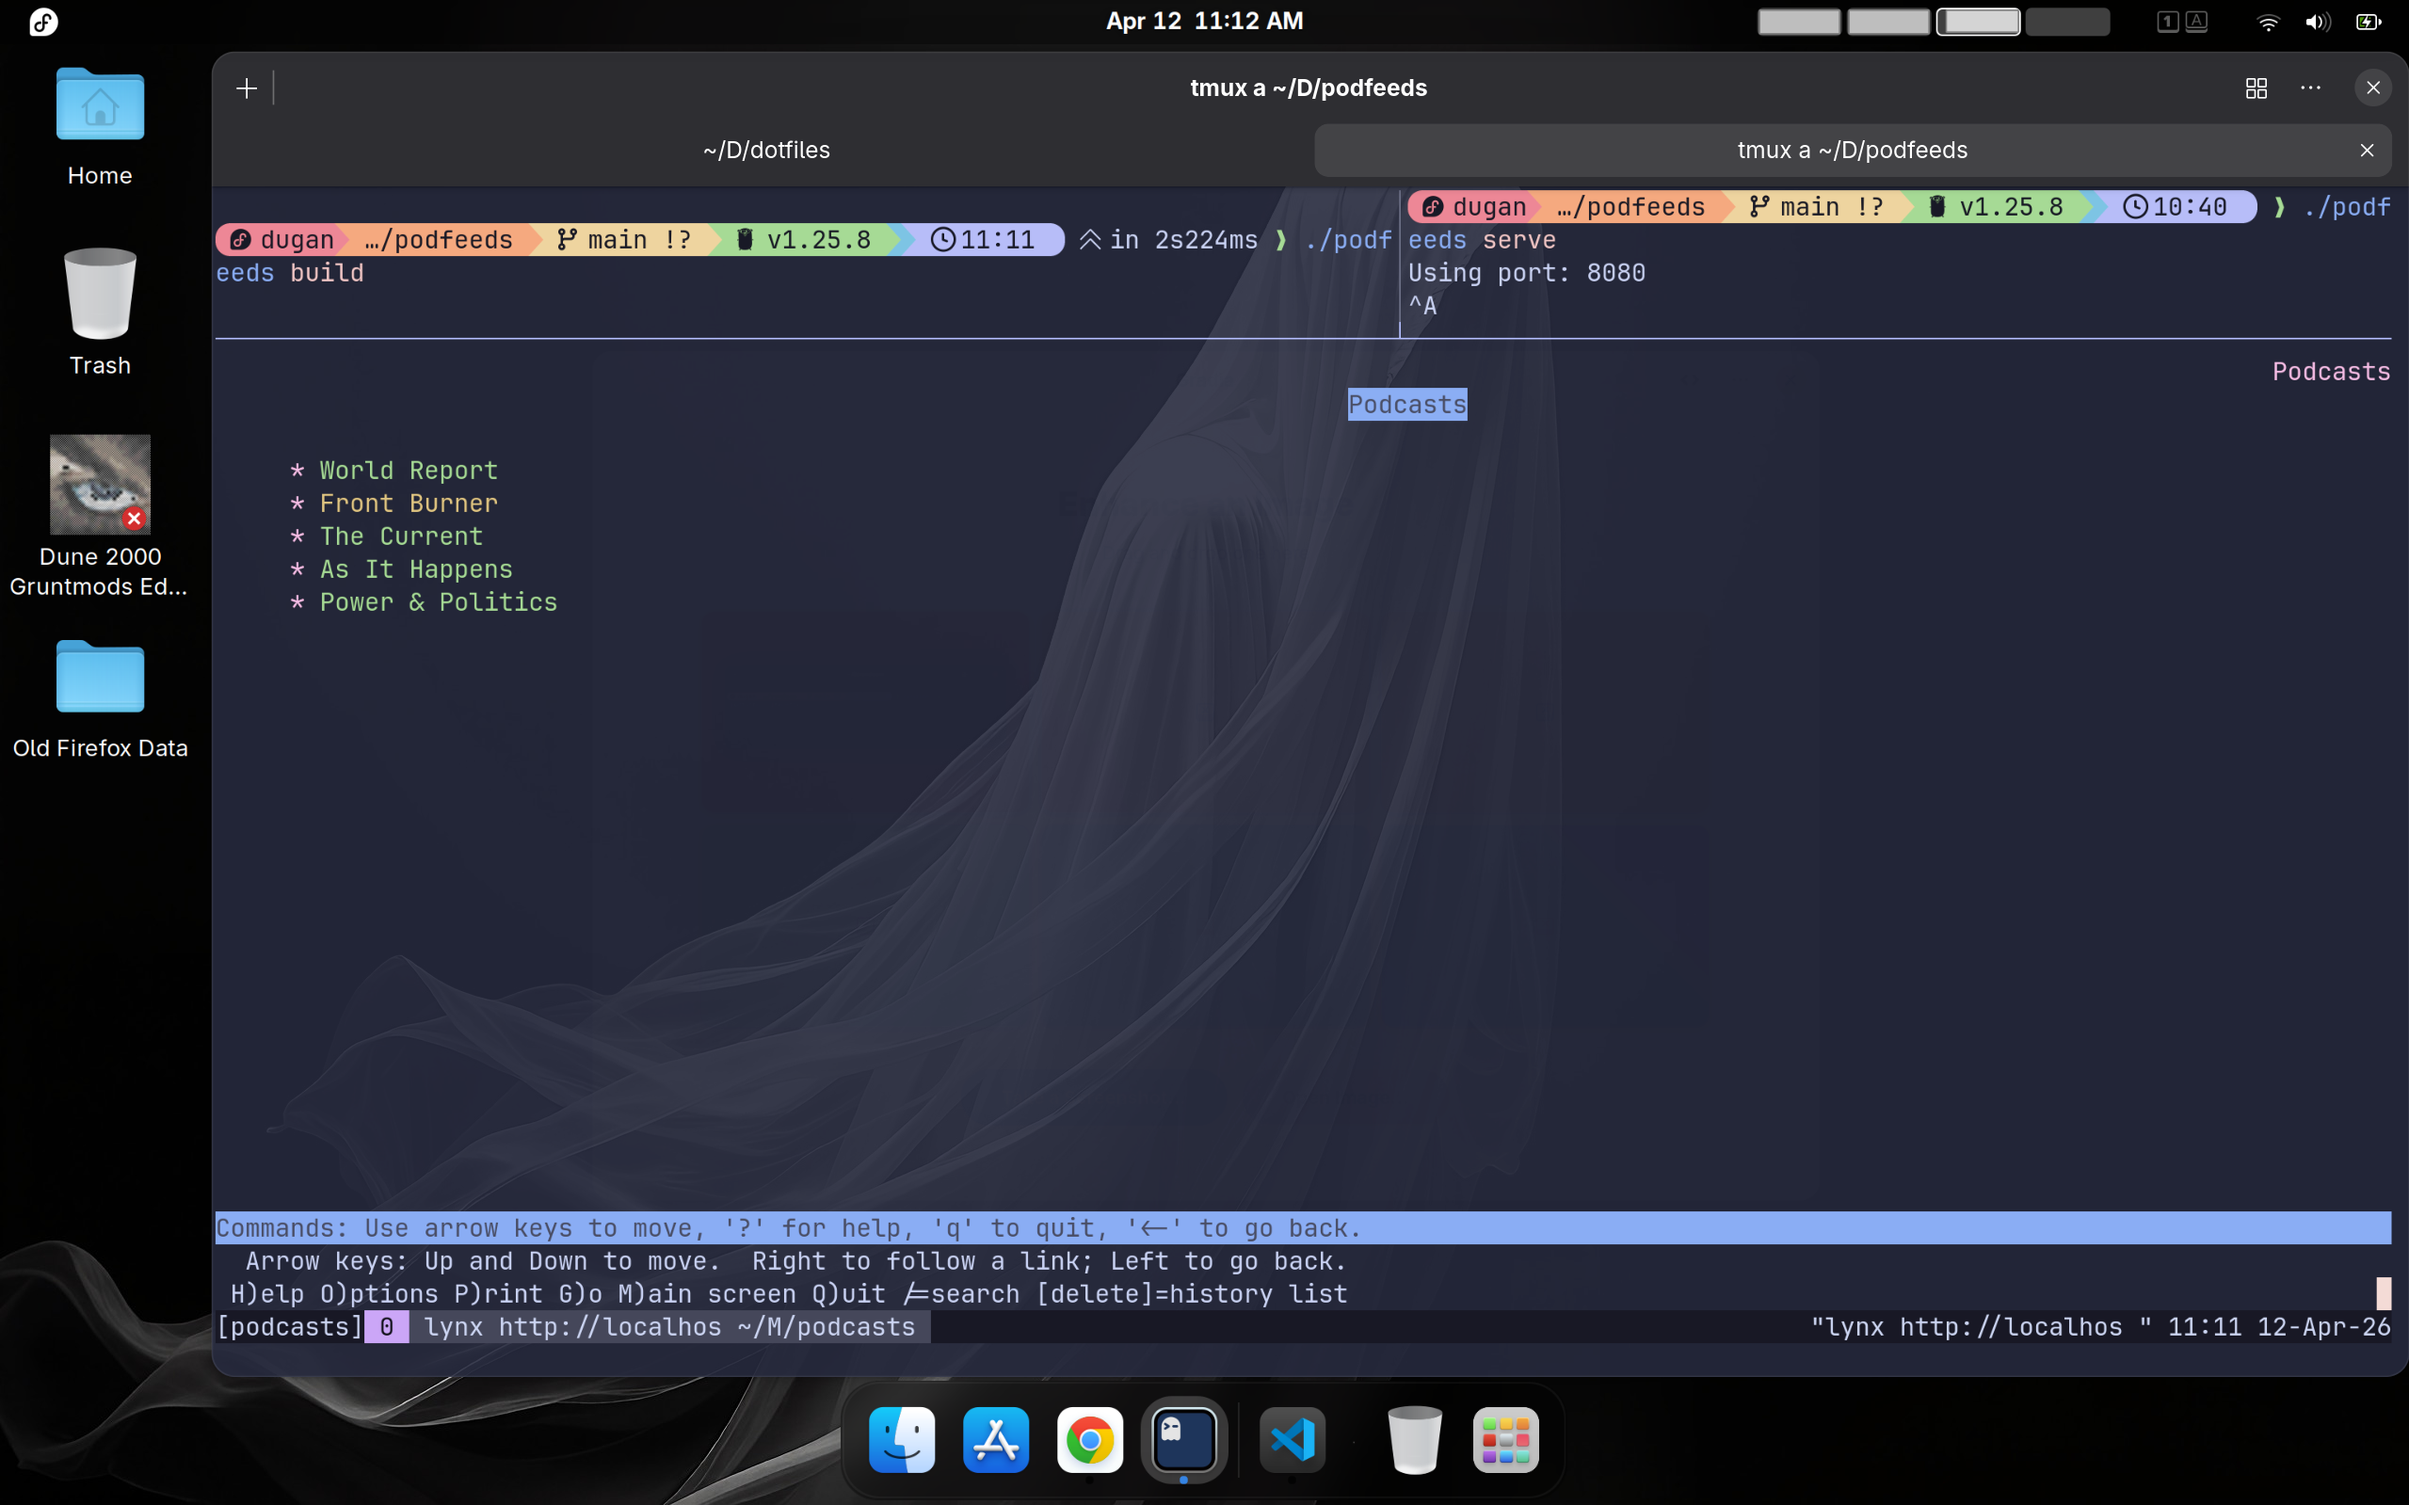
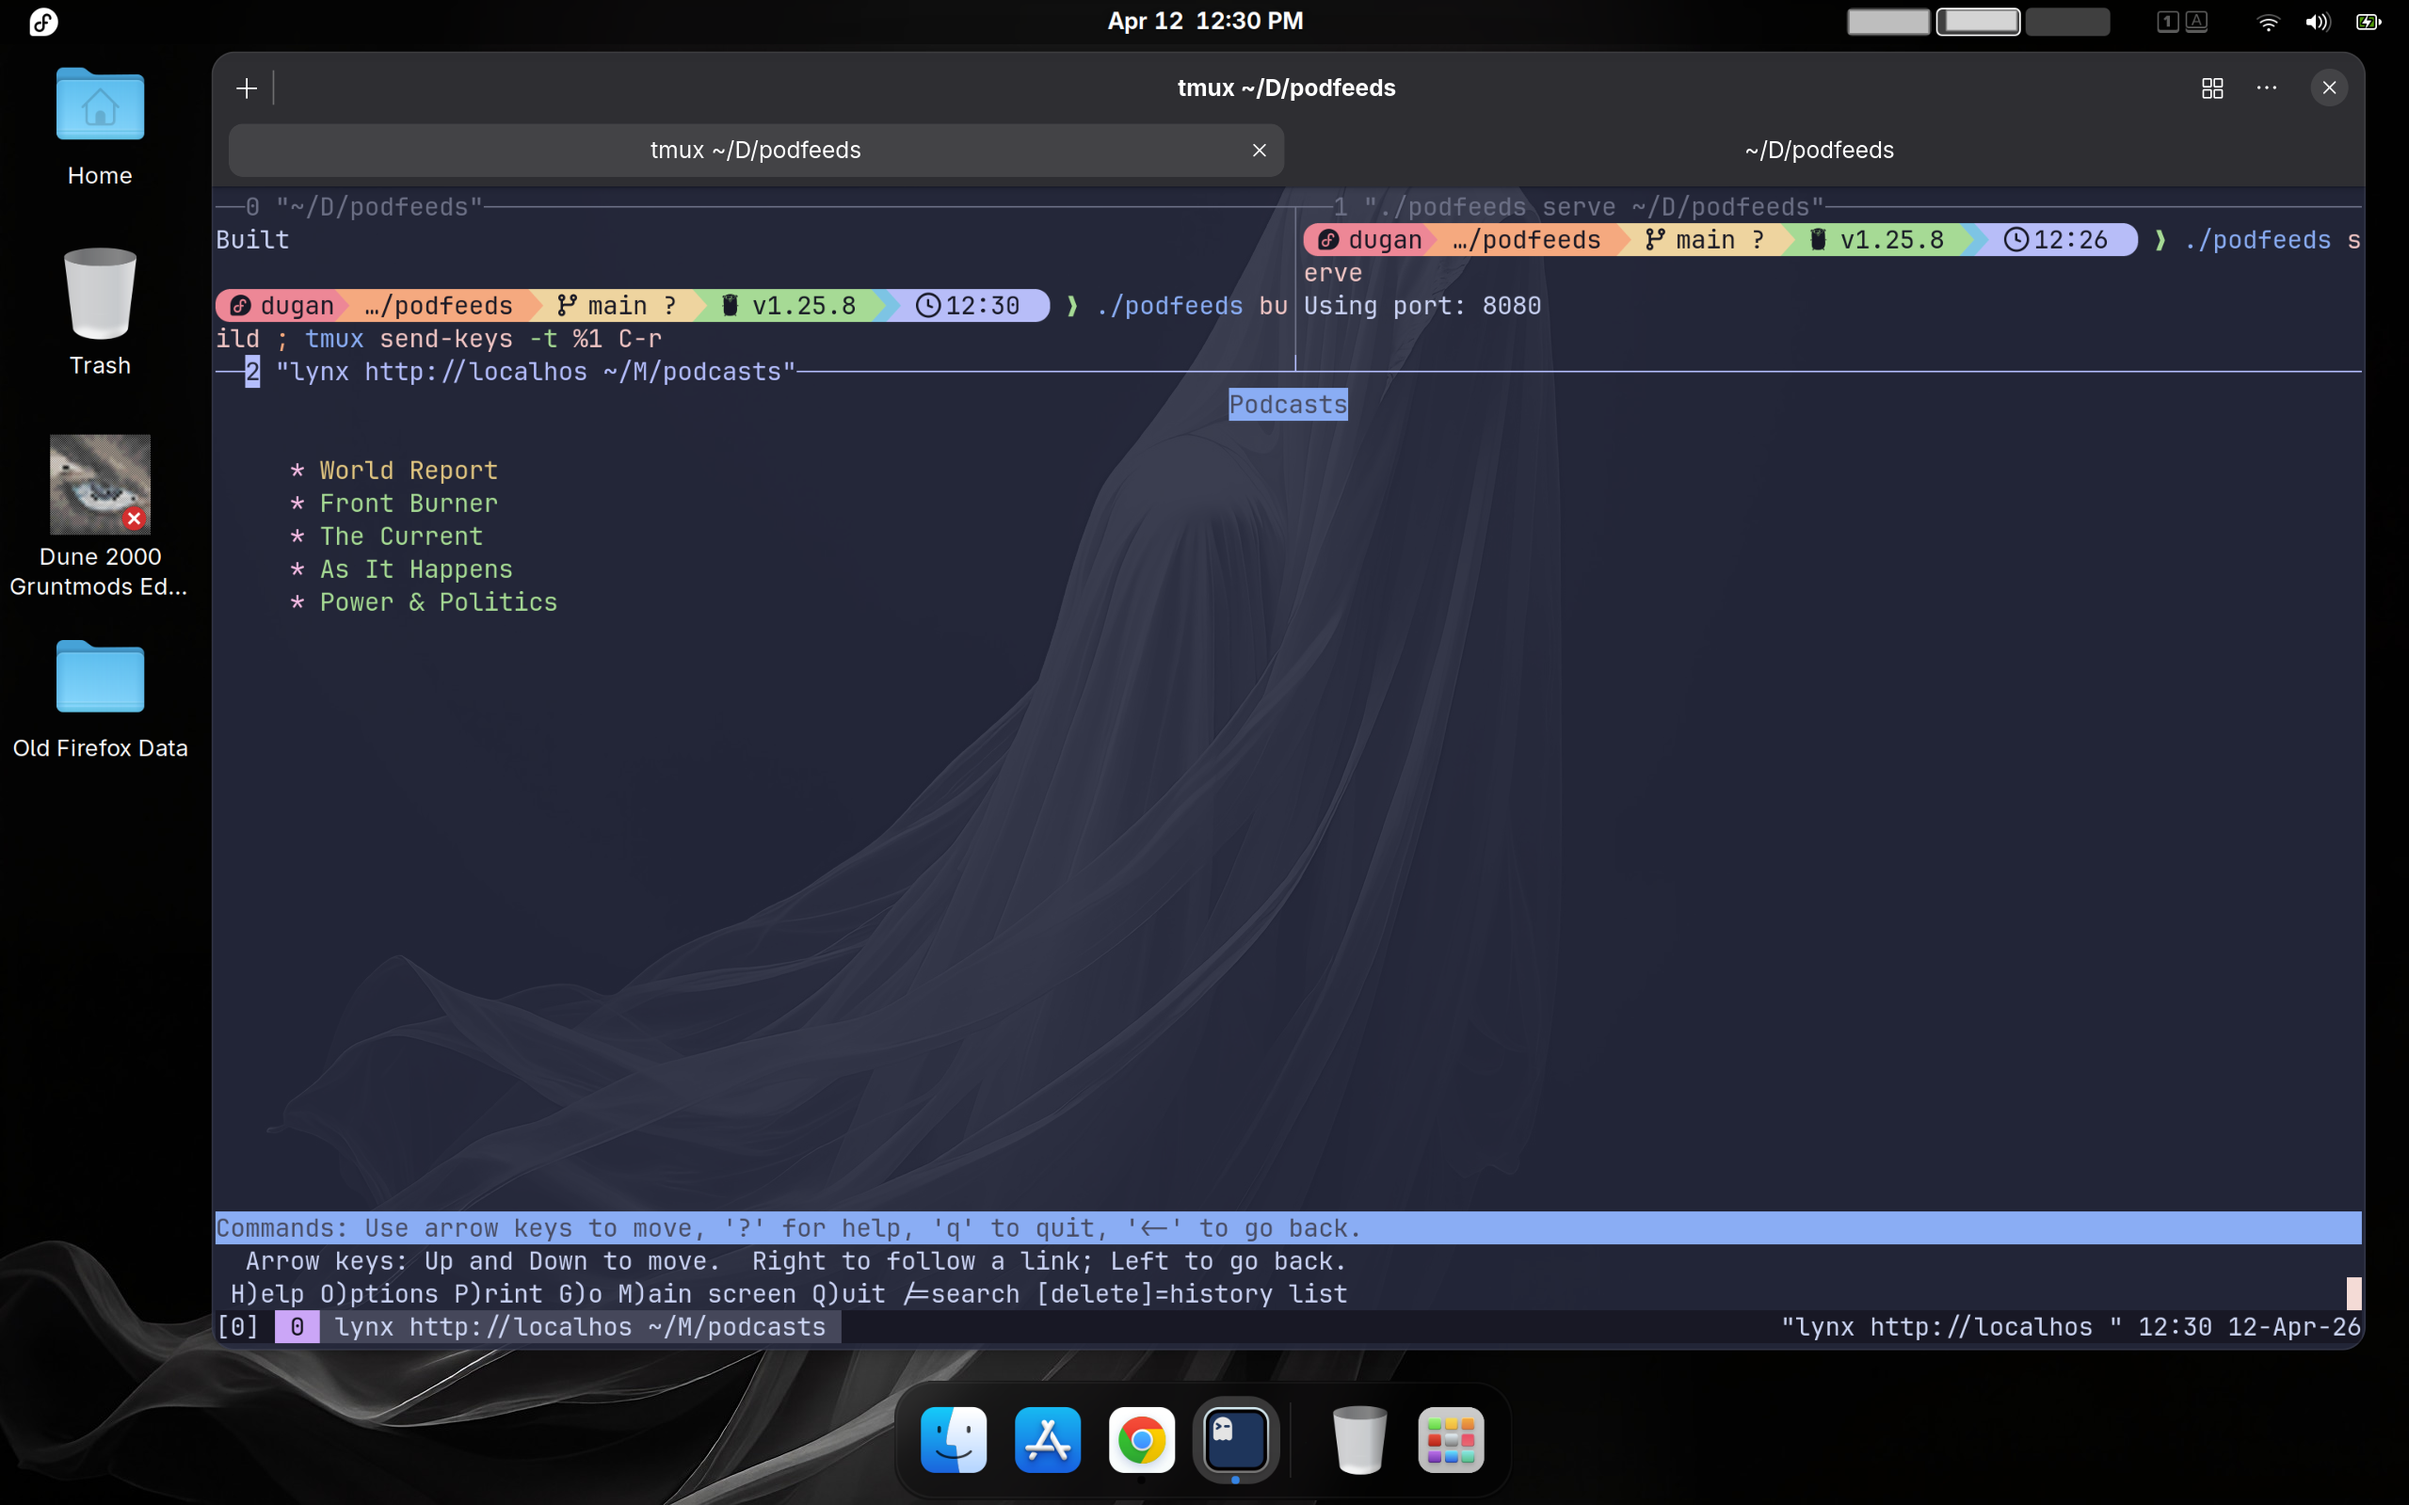
more efficiency

diff --git a/README.md b/README.md
@@ -111,6 +111,7 @@ Or press "." to download them with HTTPie.
 
 Behold my tmux session!
 
-Refreshing is an UP-key in the top left pane to recall the build command, and then a Ctrl+r in the bottom pane to refresh Lynx. Lynx is started in ~/Music/podcasts, so episodes I download with "." go directly there. I think that's reasonably efficient.
+Refreshing is an UP-key in the top left pane to recall the command line that builds the site, and then sends
+the refresh key sequence to the Lynx pane. Lynx is started in ~/Music/podcasts, so episodes I download with "." go directly there. I think that's reasonably efficient.
 
 ![tmux session](images/tmux_session.png)
